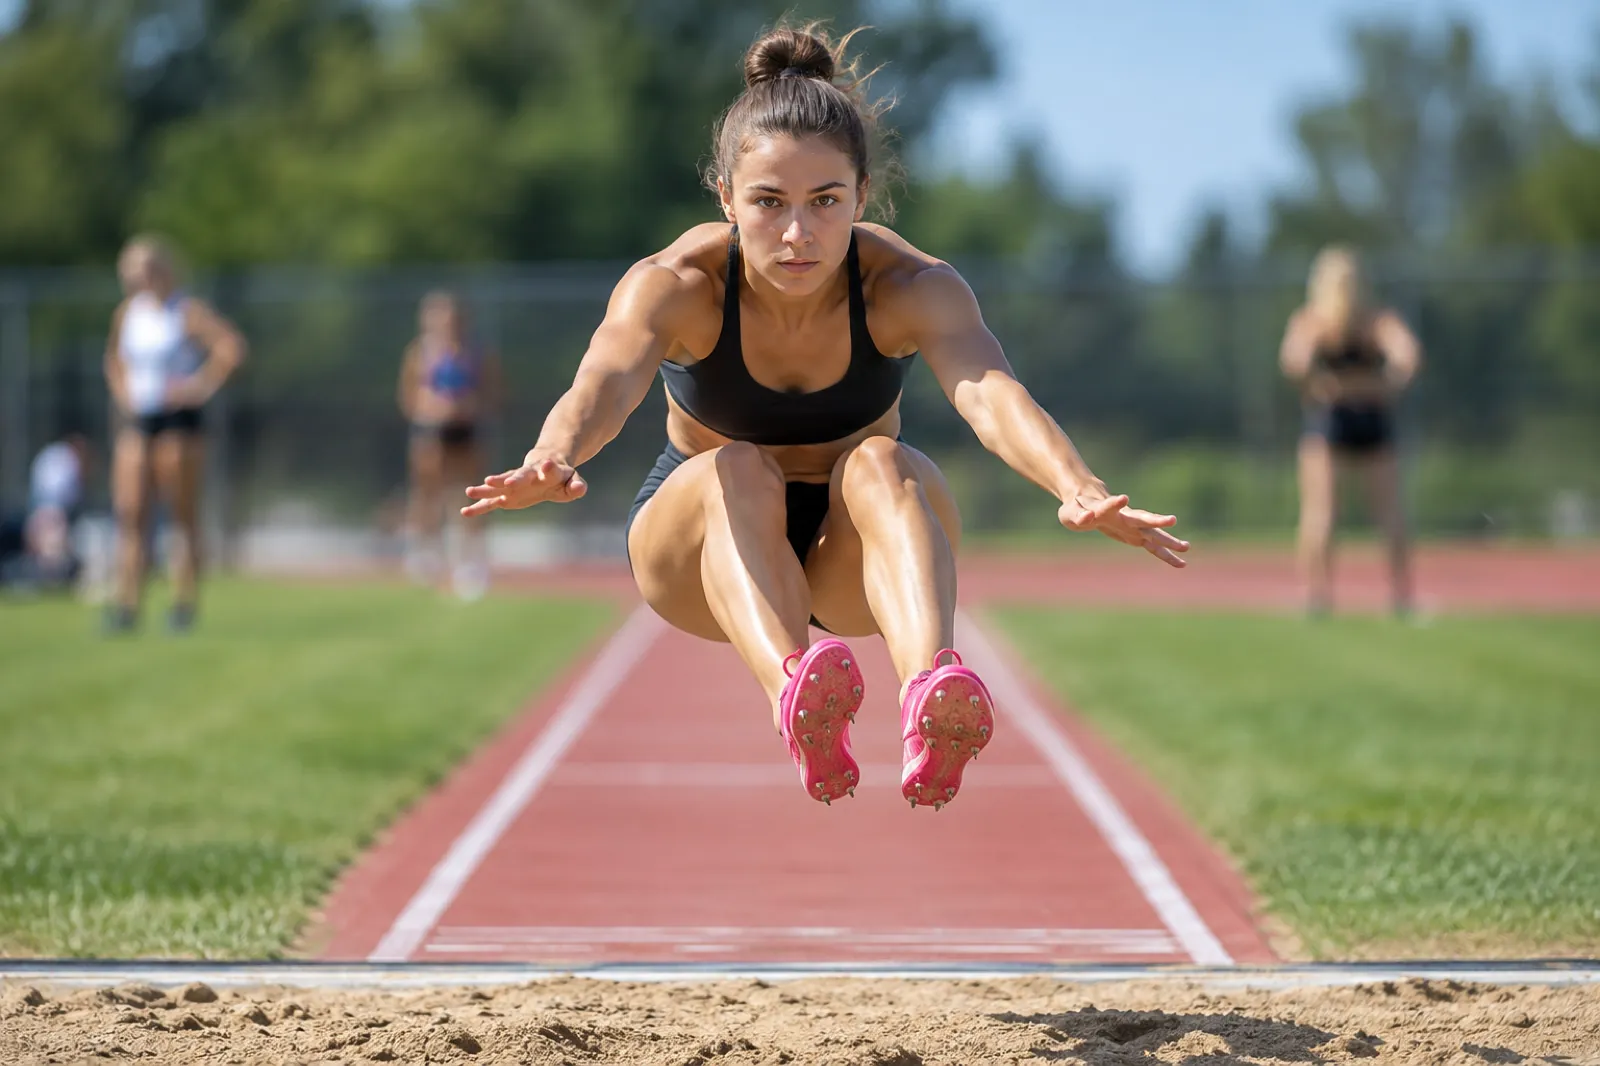
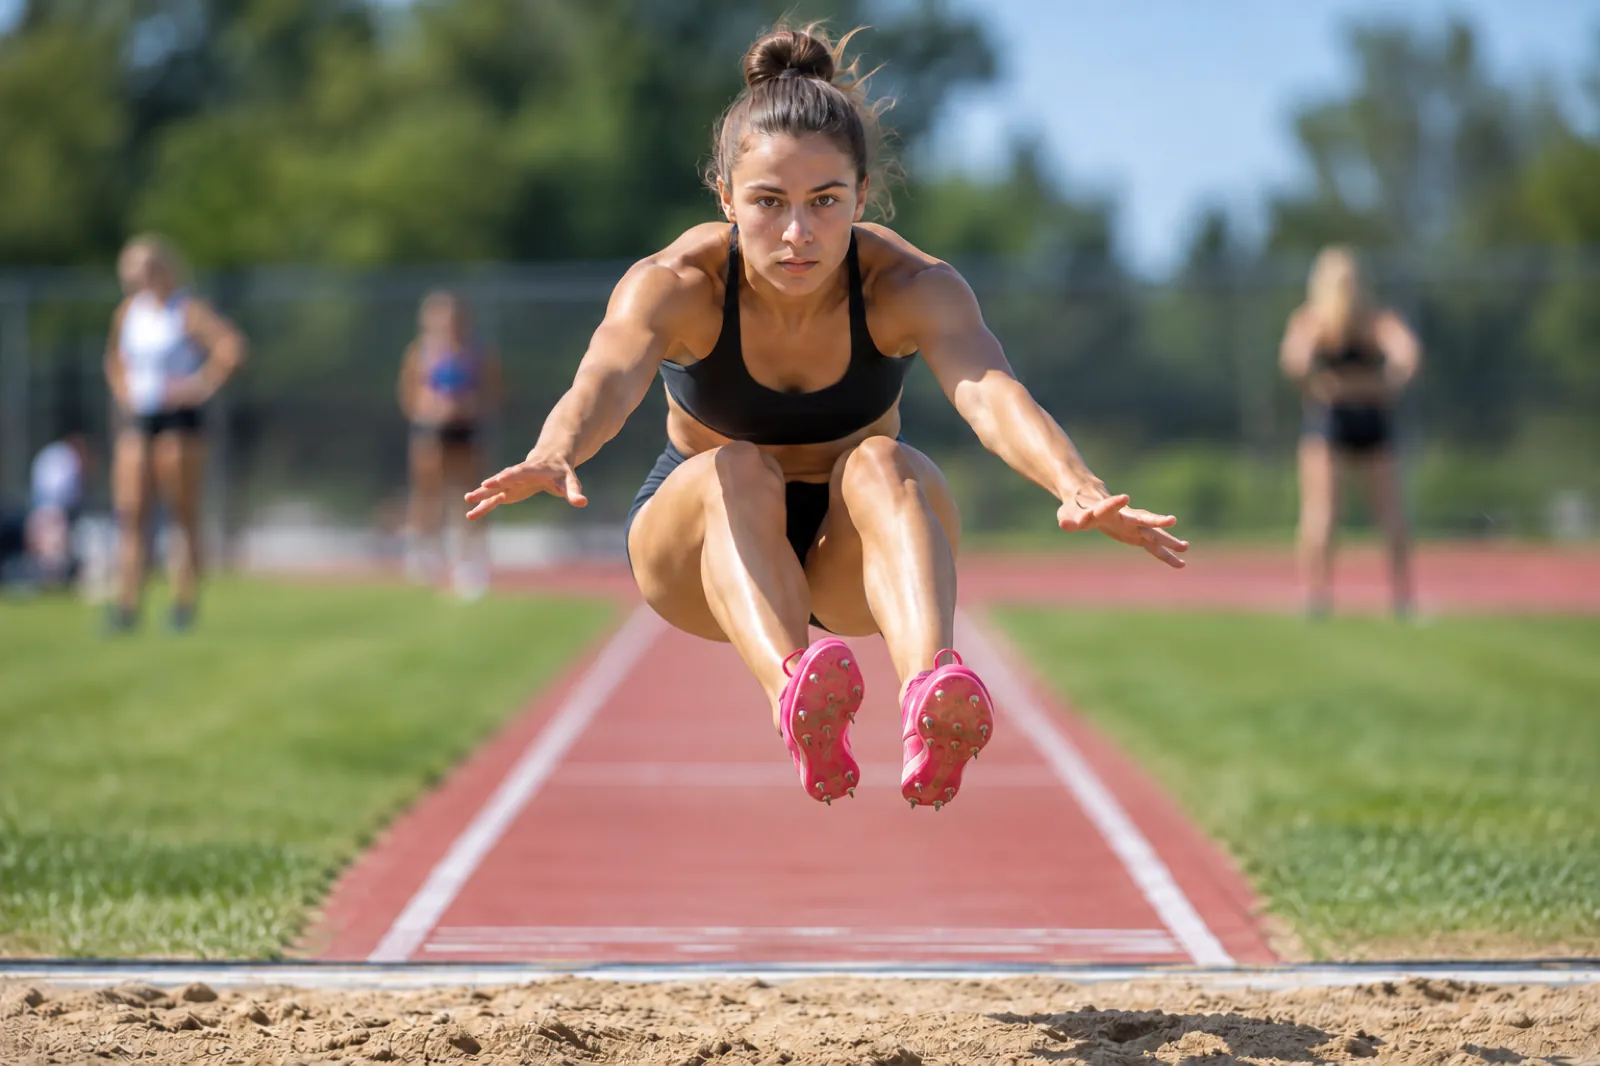
style: fix the long jumper's hand and move the share photo's athlete right

diff --git a/src/app/opengraph-image.tsx b/src/app/opengraph-image.tsx
@@ -40,20 +40,14 @@ export default async function OpengraphImage() {
         fontStyle: 'italic',
       }}
     >
+      {/* 写真（4:3）は高さに合わせて元の比のまま置き、右へはみ出させて選手を右寄りにする
+          （右端に揃えると選手が中央に来て、見出しと重なって窮屈に見えた。本人、2026-10-12） */}
       <img
         src={photoSrc}
         alt=""
-        width={800}
+        width={840}
         height={630}
-        style={{
-          position: 'absolute',
-          right: 0,
-          top: 0,
-          width: 800,
-          height: 630,
-          objectFit: 'cover',
-          objectPosition: 'center 25%',
-        }}
+        style={{ position: 'absolute', right: -120, top: 0, width: 840, height: 630 }}
       />
       {/* 写真の左を地の色へ溶かす */}
       <div
@@ -64,7 +58,7 @@ export default async function OpengraphImage() {
           width: 1200,
           height: 630,
           display: 'flex',
-          backgroundImage: `linear-gradient(90deg, ${INK} 34%, rgba(11,13,18,0.82) 52%, rgba(11,13,18,0) 78%)`,
+          backgroundImage: `linear-gradient(90deg, ${INK} 38%, rgba(11,13,18,0.8) 54%, rgba(11,13,18,0) 76%)`,
         }}
       />
       <div
